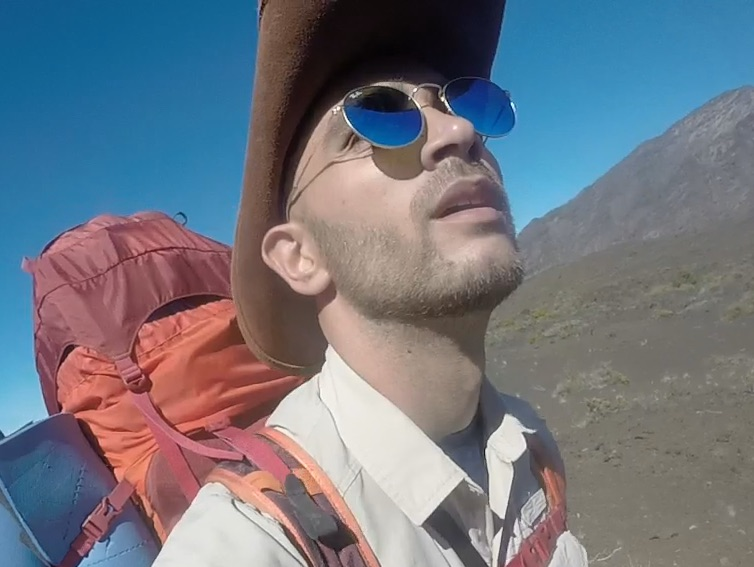
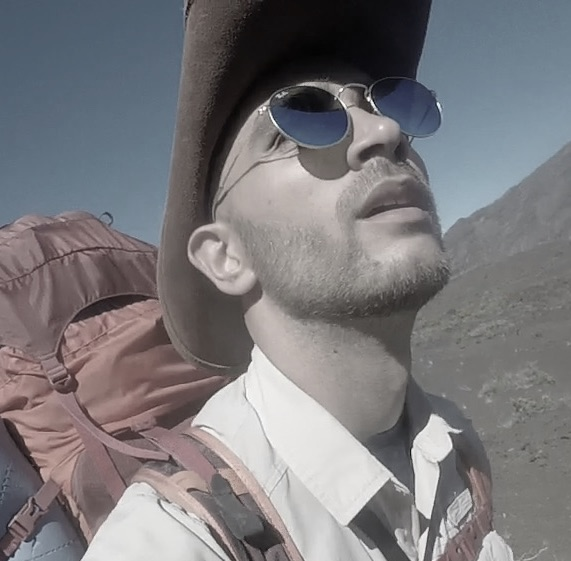
commiting revisions, refreshed repo, added gitignore file

diff --git a/index.html b/index.html
@@ -19,58 +19,51 @@
     <h1 class="text-muted" >Personal Portfolio</h1>
   </header>
   <!-- In this nav bar i included buttons that link to various id portions of the page. It might make more sense as time goes on and the sections get longer, for now the page is so small its a little redundant -->
-  <nav>
-    <p class="text-muted" >What Can I Do?</p>
-  </nav>
+
   <!--  -->
 
   <nav>
-    <a href="#mechanical ">Mechanical</a>
-    <a href="#coding">Coding</a>
-    <a href="#woodworking">Woodworking</a>
-    <a href="#resume">Resume</a>
+
+    <a class="text-muted" href="#coding">Coding</a>
+    <a class="text-muted" href="#mechanical">Mechanical</a>
+    <a class="text-muted" href="#woodworking">Woodworking</a>
+    <a class="text-muted" href="#resume">Resume</a>
   </nav>
 
   <main>
     <!-- The aside has my picture and contact, it flexes into a column as the screen shrinks -->
     <aside>
-      <h2>Mikey Hauser</h2>
-      <p>ASE Master Tech <br>
-        Computer Science Student
+      <div class="row ">
+        <div class="col-sm-6">
+      <h2 class="text-muted" >Mikey Hauser</h2>
+      <p class="text-muted" >ASE Master Mechanic <br>
+            <a class="text-muted" href="https://www.ase.com/test-series">(A1-A9, T1-T8, CDL Licensed)</a><br><br>
+        Computer Science Student<br><br>
+
+        <a class="text-muted" href="mailto: abc@example.com">mikeyhauser@gmail.com</a>
       </p>
-      <div class="mikey"></div>
+     
+    </div>
+    <img id="mikey" src="./Assets/mikeyMountains2.jpg" class="img-thumbnail" alt="Responsive image">
+  </div>
       <p>
-        <a href="mailto: abc@example.com">mikeyhauser@gmail.com</a>
+    
       </p>
+    </div>
     </aside>
 
     <section>
       <!-- In each category i included text and pictures that open into a full picture in a separate tab. In the coding section I made the hover feature make the image larger so the viewer can understand what they are looking at before clicking   -->
-      <h2 class="text-muted" id="mechanical">MECHANICAL REPAIR</h2>
-      <p class="text-muted">For over a decade I have repaired engines, both diesel and gasoline, in an array of industries. From
-        agricultural and trucking equipment in Orange County, NC, to buses and tourism boats in the Galapagos Islands,
-        the world of mechanical repair has been kind in providing me with a myriad of opportunity. It brings me joy to disassemble
-        equipment and fix it. Whether in the field or in a workshop, every mechanical breakdown is a valuable chance to
-        plumb the depths of critical thinking. I owe every shattered bearing my gratitude.</p>
-      <!-- in the flex container, I have put in pictures. the href is what the button links to, and the img src is the button itself -->
 
-      <div class="flex-container">
-        <div class="woodMetal"> <a href="./Assets/injectors.jpg" target="_blank"><img src="./Assets/injectors.jpg"
-              alt="" srcset=""></a></div>
-        <div class="woodMetal"> <a href="./Assets/pumpkin.jpg" target="_blank"><img src="./Assets/pumpkin.jpg" alt=""
-              srcset=""></a></div>
-      </div>
       <h2 class="text-muted" id="coding">COMPUTER PROGRAMMING</h2>
       <p class="text-muted pb-5">
-        I have started on a path to learn the in's and out's of computer programming. By pursuing both a degree in
-        Computer Science and a Participating in the UNC Coding Bootcamp, I aim to develop and polish my skills in this
-        area. This section of my Professional Portfolio Page (constructed with HTML/CSS) displays the projects I have been working on
-        in the Coding Bootcamp.
+        I'm practicing the in's and out's of computer programming (both front and back end.) By pursuing a degree in Computer Science and participating in the UNC Coding Bootcamp, I develop new coding skills and polish the old ones. This section of my Professional Portfolio Page (constructed with HTML/CSS) displays the projects I have been working on in the Coding Bootcamp.
       </p>
 
-      <!-- Portfolio -->
+
       <div class="container ">
         <div class="row ">
+                <!-- Portfolio -->
           <div class="col-sm-6 px-10px lg-3 pb-5">
             <div class="card" style="width: 20rem;">
               <div class="card-body"style="background-color:#F6F3E7">
@@ -82,9 +75,9 @@
                   <img src="./Assets/PortThumb.jpg" class="img-thumbnail" alt="Responsive image">
                 </div>
                 <row class=>
-                  <a href="./Assets/htmlfirst.pdf" class="mb-1 d-block btn text-muted bg-dark mx-auto" style="width: 10.5rem;">HTML</a>
-                  <a href=" https://mikeyhauser.github.io/PersonalPortfolio/" class="mb-1  d-block btn text-muted bg-dark mx-auto" style="width: 10.5rem;">Deployed Site</a>
-                  <a href="  https://github.com/mikeyhauser/PersonalPortfolio/" class="mb-1  d-block btn text-muted bg-dark mx-auto" style="width: 10.5rem;">Repository </a>
+                  <a href="https://github.com/mikeyhauser/PersonalPortfolio/blob/main/index.html" class="mb-1 d-block btn text-muted mx-auto" style="width: 10.5rem;">HTML</a>
+                  <a href=" https://mikeyhauser.github.io/PersonalPortfolio/" class="mb-1  d-block btn text-muted mx-auto" style="width: 10.5rem;">Deployed Site</a>
+                  <a href="  https://github.com/mikeyhauser/PersonalPortfolio/" class="mb-1  d-block btn text-muted  mx-auto" style="width: 10.5rem;">Repository </a>
 
                 </row>
               </div>
@@ -104,9 +97,9 @@
                   <img src="./Assets/pickThumb.jpg" class="img-thumbnail" alt="Responsive image">
                 </div>
                 <row class=>
-                  <a href="#" class="mb-1  d-block btn text-muted bg-dark mx-auto" style="width: 10.5rem;">Javascript</a>
-                  <a href=" https://joeltbenson.github.io/PickYourPoison/" class="mb-1  d-block btn text-muted bg-dark mx-auto" style="width: 10.5rem;">Deployed Site</a>
-                  <a href=" https://github.com/JoelTBenson/PickYourPoison" class="mb-1  d-block btn text-muted bg-dark mx-auto" style="width: 10.5rem;">Repository</a>
+                  <a href="https://github.com/JoelTBenson/PickYourPoison/blob/main/assets/pickyourpoison.js" class="mb-1  d-block btn text-muted  mx-auto" style="width: 10.5rem;">Javascript</a>
+                  <a href=" https://joeltbenson.github.io/PickYourPoison/" class="mb-1  d-block btn text-muted  mx-auto" style="width: 10.5rem;">Deployed Site</a>
+                  <a href=" https://github.com/JoelTBenson/PickYourPoison" class="mb-1  d-block btn text-muted  mx-auto" style="width: 10.5rem;">Repository</a>
                 </row>
 
 
@@ -124,16 +117,73 @@
                   <img src="./Assets/workdayThumb.jpg" class="img-thumbnail" alt="Responsive image">
                 </div>
                 <row class=>
-                  <a href="#" class="mb-1  d-block btn text-muted bg-dark mx-auto" style="width: 10.5rem;">Javascript Code</a>
-                  <a href=" https://mikeyhauser.github.io/HW5workday/" class=" mb-1 d-block btn text-muted bg-dark mx-auto" style="width: 10.5rem;">Deplyed Site</a>
-                  <a href=" https://github.com/mikeyhauser/HW5workday" class=" mb-1 d-block btn text-muted bg-dark mx-auto" style="width: 10.5rem;">Repository</a>
+                  <a href="https://github.com/mikeyhauser/HW5workday/blob/main/Develop/time.js" class="mb-1  d-block btn text-muted  mx-auto" style="width: 10.5rem;">Javascript Code</a>
+                  <a href=" https://mikeyhauser.github.io/HW5workday/" class=" mb-1 d-block btn text-muted  mx-auto" style="width: 10.5rem;">Deplyed Site</a>
+                  <a href=" https://github.com/mikeyhauser/HW5workday" class=" mb-1 d-block btn text-muted  mx-auto" style="width: 10.5rem;">Repository</a>
                 </row>
               </div>
             </div>
           </div>
         </div>
-        <h2 id="woodworking">For The Love Woodworking!</h2>
-        <p class="pb-5">After a year and a half of designing and building my own house, people around me have noticed that I have a
+        </div>
+        <!-- MECHANICAL SECTION   -->
+        <h2 id="mechanical" class="text-muted" >MECHANICAL REPAIR</h2>
+        <p  class="text-muted">For over a decade I have repaired engines, both diesel and gasoline, in an array of industries. From
+          agricultural and trucking equipment in Orange County, NC, to buses and tourism boats in the Galapagos Islands,
+          the world of mechanical repair has been kind in providing me with a myriad of opportunity. It brings me joy to disassemble
+          equipment and fix it. Whether in the field or in a workshop, every mechanical breakdown is a valuable chance to
+          plumb the depths of critical thinking. I owe every shattered bearing my gratitude.</p>
+        <!-- in the flex container, I have put in pictures. the href is what the button links to, and the img src is the button itself -->
+        <div class="container ">
+          <div class="row ">
+              <!-- ENGINE REPAIR -->
+              <div class=" col-sm-6 px-30px lg-3 pb-5">
+                <div class="card" style="width: 20rem;">
+                  <div class="card-body "style="background-color:#F6F3E7">
+                    <h5 class="card-title text-muted text-align center "> Engine Repair  </h5>
+                    <!-- <p class="card-text text-muted">This application assists the user to plan their schedule for the day. It makes use of local memory to store input data It also uses API requests to access the time of day and change the featured colors of each hour block to reflect which slots are past, present, and future.</p> -->
+                    <div class=" py-2 flex-container">
+                      <img src="./Assets/injectors.jpg" class="img-thumbnail" alt="Responsive image">
+                    </div>
+                    <row class=>
+                      <p class="mb-1  d-block btn text-muted  mx-auto" style="width: 10.5rem;">Diesel/CDL</p>
+                      <p class=" mb-1 d-block btn text-muted  mx-auto" style="width: 10.5rem;">Gasoline/Auto</p>
+                      <p class=" mb-1 d-block btn text-muted  mx-auto" style="width: 10.5rem;">Hydraulic/Eqmt</p>
+                    </row>
+                  </div>
+                </div>
+              </div>
+
+              <!-- END -->
+              <!-- BODYWORK/DRIVETRAIN -->
+
+
+              <div class=" col-sm-6 px-30px lg-3 pb-5">
+                <div class="card" style="width: 20rem;">
+                  <div class="card-body "style="background-color:#F6F3E7">
+                    <h5 class="card-title text-muted text-align center "> Vehicle Maintenance  </h5>
+                    <p class="card-text text-muted"></p>
+                    <div class=" py-2 flex-container">
+                      <img src="./Assets/pumpkin.jpg" class="img-thumbnail" alt="Responsive image">
+                    </div>
+                    <row class=>
+                      <p class="mb-1  d-block btn text-muted mx-auto" style="width: 10.5rem;">Drivetrain</p>
+                      <p class=" mb-1 d-block btn text-muted  mx-auto" style="width: 10.5rem;">Steering</p  >
+                      <p class=" mb-1 d-block btn text-muted  mx-auto" style="width: 10.5rem;">Basic Servicing</p>
+                    </row>
+                  </div>
+                </div>
+              </div>
+
+              <!-- END -->
+                </div>
+              </div> 
+
+
+
+        <!-- WOODWORKING SECTION -->
+        <h2 id="woodworking">WOODWORKING: section under repair</h2>
+        <!-- <p class="pb-5">After a year and a half of designing and building my own house, people around me have noticed that I have a
           natural ability to work wood. I enjoy taking fallen trees or old wood and using tools to make them into
           furniture, geometric shapes, or custom trim for a house. If you have some fancy wood you’d like to incorporate
           into a creative project, share that dream with me and the chances are I have the tools and skills to make it
@@ -146,9 +196,9 @@
           <div class="woodMetal"> <a href="./Assets/frameWeb.jpg" target="_blank"><img src="./Assets/frameWeb.jpg"
                 alt="" srcset=""></a></div>
         </div>
-        <h2 id="resume">
+        <h2 id="resume"> -->
           <!-- at the end I have included a resume link -->
-          <a href="./Assets/MHweb.pdf" target="_blank">MY RESUME</a>
+          <a id="resume" href="./Assets/MHweb.pdf" target="_blank">MY RESUME</a>
         </h2>
     </section>
 

diff --git a/Assets/style.css b/Assets/style.css
@@ -6,6 +6,11 @@ body {
   background-color: rgb(120, 121, 116);
   margin: 0;
 }
+.btn {
+  background-color:  rgb(240, 226, 206) !important;
+  
+  }
+
 /* sets the style for the header with the jpg in the background, cover size shifts it slightly when changing the size of the page.  */
 header {
   background-image: url("con tree4.jpg");
@@ -19,7 +24,7 @@ header {
 /* here i made some linear gradients that fade to clear */
 h1{
    color: rgb(249, 250, 238);
-   background-image: linear-gradient(to right, rgba(227, 215, 189, 0.507), rgba(255,0,0,.05));
+   background-image: linear-gradient(to right, rgba(227, 215, 189, 0.7), rgba(255,0,0,.05));
    
 }
 h5{
@@ -30,7 +35,8 @@ h5{
 
 /* the nav bar gradients are set similar to the h1. flex is set so it can adjust to changing screen sizes */
 nav {
-
+  display: flex ;
+  
   background-image: linear-gradient(to right, rgba(211, 208, 201, 0.4), rgba(255,0,0,.05));
 }
 
@@ -50,28 +56,33 @@ main {
 
 aside {
   flex: 1;
-  background-color: #635f69;
+  background-color:  rgb(184, 184, 184) !important;
   padding: 20px;
+  margin-bottom: 30px;
+  border-top-right-radius: 25px;
+  border-bottom-right-radius: 25px;
 
 }
 /* this sets the section style flex  priority*/
 section {
   flex: 3;
-  background-color: #fff;
+  /* background-color: #fff; */
   padding: 20px;
   
 }
 
 /* here i defined the mikey picture and set the jpg in the style */
-.mikey {
-  background-image: url("mikeyMountains.jpg");
-  background-size: auto 100%;
+#mikey {
+  background-image: url("con tree4.jpg");
+  
   background-position-x: center;
   background-repeat: no-repeat;
   height: 300px;
-  padding: 20px;
+  width: 300px;
+  padding: 2px;
   border: 3px solid rgba(115, 96, 131, 0.4);
-  background-color:rgba(115, 96, 131, 0.4)
+  background-color:rgba(115, 96, 131, 0.4);
+  border-radius: 25px;
 
 
 }
@@ -87,12 +98,12 @@ justify-content: space-between;
 }
 
 /* the transition is set at 500 ms and ease in so the reaction for the image growth isnt so abrupt */
-.coding img {
+/* .coding img { */
   /* background-image: url("html.jpg"); */
-  height: 150px;
+  /* height: 150px;
   width: 150px;
   transition: all 500ms ease-in;
-}
+} */
 /* the hover feature causes the images to jump out if the user wants a closer look */
 /* .coding img:hover { */
   /* position: static; top: ; left: 0; right: 0; bottom: 0;
@@ -118,23 +129,28 @@ footer {
   background: rgba(115, 96, 131, 0.4);
   color: #fff;
 }
+
+
 /* max-width is < px */
 @media only screen and (max-width: 770px) {
   /* Use flex-direction to stack the navbar, sidebar, and body */
-  /* main,
+
   nav {
     flex-direction: column;
-  } */
+    display: flex !important;
+  }
 
   /* class = .     id = #       element = element */
   .row {
-    display: block;
+    display: block !important;
   }
   /* Make the sidebar stack below the body */
-  /* aside {
+ aside {
     display:inline-block;
     height: 400px;
-  } */
+    margin-bottom: 150px !important;
+  }
+  
   /* Change the header background */
   /* Change the navbar and footer background */
   /* nav,
